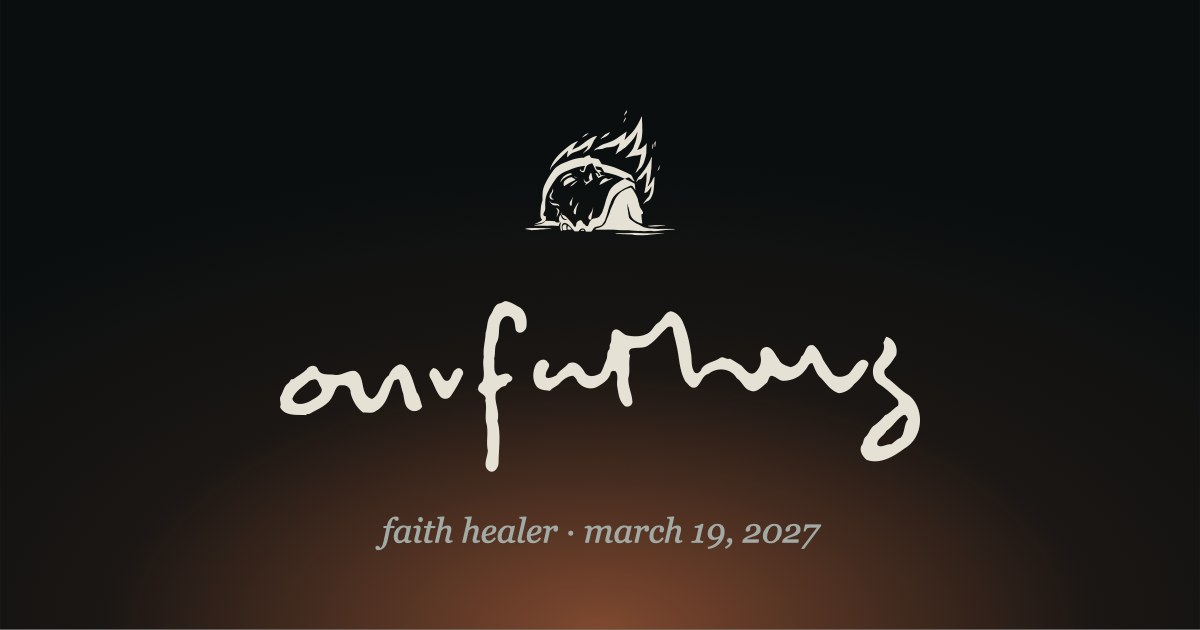
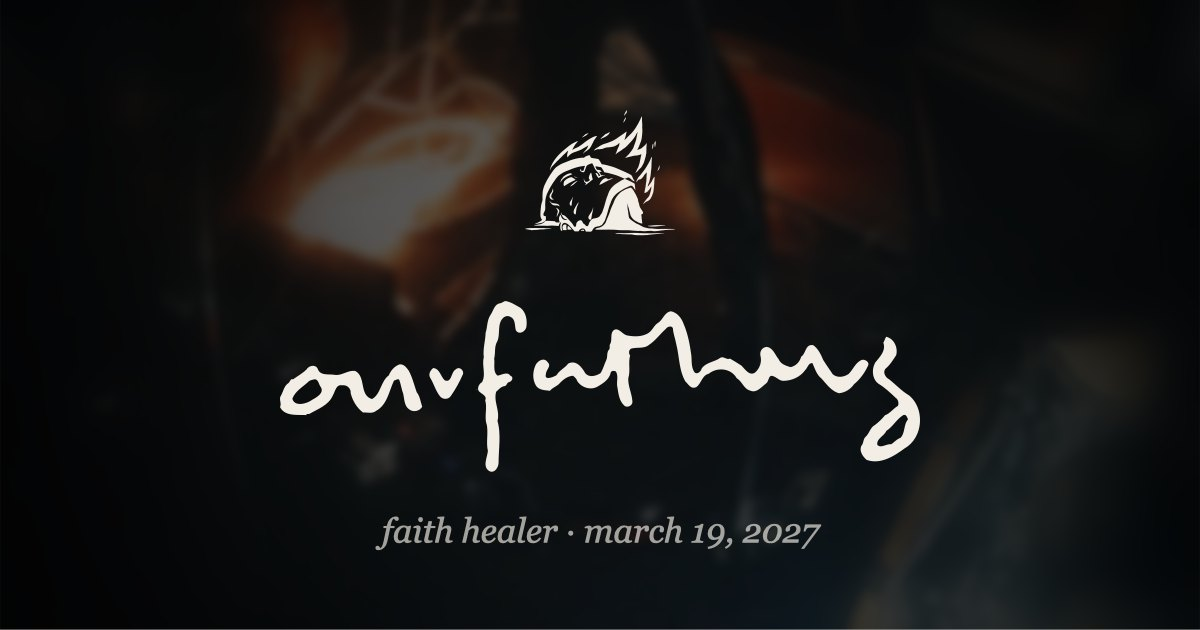
share card: stage photo through a fisheye

diff --git a/index.html b/index.html
@@ -16,7 +16,7 @@
 <meta property="og:type" content="website">
 <meta property="og:url" content="https://jeramejoel.github.io/ourfathers_2026/">
 <link rel="canonical" href="https://jeramejoel.github.io/ourfathers_2026/">
-<meta property="og:image" content="https://jeramejoel.github.io/ourfathers_2026/assets/img/share.jpg">
+<meta property="og:image" content="https://jeramejoel.github.io/ourfathers_2026/assets/img/share.jpg?v=2">
 <meta property="og:image:width" content="1200">
 <meta property="og:image:height" content="630">
 <meta property="og:image:alt" content="ourfathers. Faith Healer, March 19, 2027">
@@ -734,7 +734,7 @@ html.motion .secnav{animation:none}
   </div>
 </dialog>
 
[2 lines of base64/hex data omitted]
 <script>
 /* Fill these in before sending. Anything left null shows as "on request".
    Everything between the kit markers is press-only: the build encrypts it when the lock is on. */
